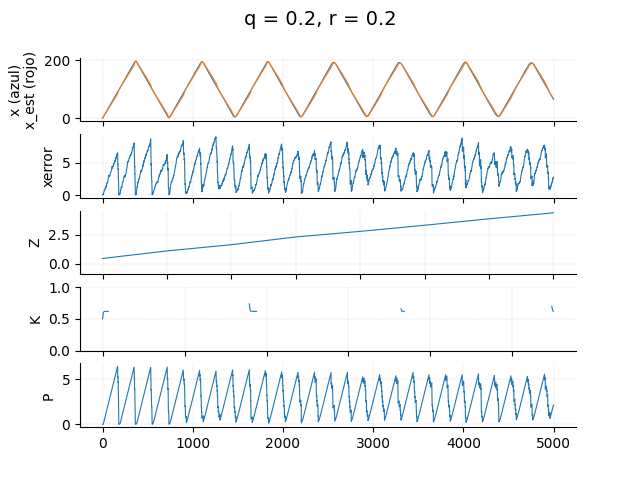
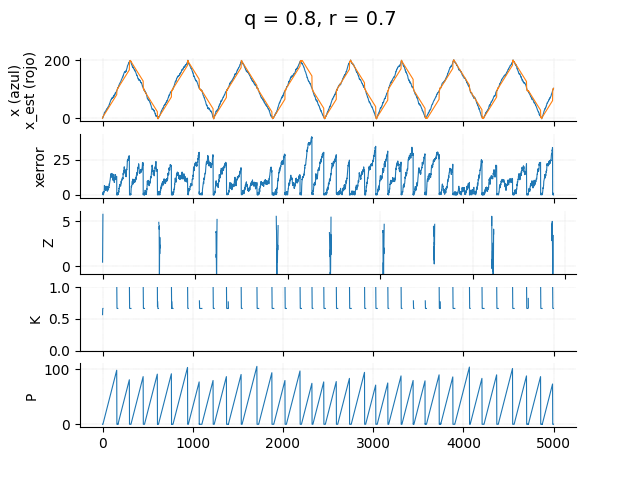
Primer intento de separar en scripts e iteraciones

diff --git a/TwoDim/main.py b/TwoDim/main.py
@@ -2,6 +2,9 @@ import matplotlib.pyplot as plt
 import localizacion as loc
 import plots
 import csv
+import numpy as np
+import pandas as pd
+import math
 
 
 dist = 200    # (m) este parámetro no se cambia
@@ -10,34 +13,71 @@ t_max = 5000  # (s) este parámetro no se cambia
 seeds = [123456789, 234567891, 34567891, 456789123, 567891234, 67891234, 7891234, 89123456, 912345678, 213456789]
 #seeds = [123456789]
 
-q_set = [0.2, 0.4, 0.5, 0.7]
-r_eval = [0.2, 0.3, 0.4, 0.8]
-#q_set = [0.8]
-#r_eval = [0.7]
-rango_set = [5]
+#q_set = [0.2, 0.4, 0.5, 0.7]
+#r_eval = [0.2, 0.3, 0.4, 0.8]
+q_set = [0.2]
+r_eval = [0.4]
+rango_set = [70]
+
+#Ctes iniciales
+v_lin = 0.5     #Velocidad lineal m/s
+radio = 260
+
+# Landmarks definidos respecto del origen
+m = [ (0, 2*radio),
+        (0, 0)]
 
 with open('log.csv','w', newline='') as file:
     writer = csv.writer(file)
-    writer.writerow(['x', 'xest', 'xerror', 'p', 'z', 'K', 'var_q', 'var_r'])
+    writer.writerow(['x_avg', 'y_avg', 'xest_avg', 'yest_avg', 'error_avg', 'x_std', 'y_std', 'xest_std', 'yest_std', 'var_q', 'var_r'])
 
     for j in enumerate(r_eval):
         r_set = j[1]
         for i in enumerate(q_set):
             q = i[1] ** 2  # prueba con distinto ruido odométrico, varianza (m2)
             r = r_set ** 2  # prueba con distinto ruido sensorial, varianza (m2)
-            #rango_sensor = rango_set[i[0]]  # prueba con distinto alcance sensorial (m)
-            rango_sensor = 5
+            rango_sensor = rango_set[i[0]]  # prueba con distinto alcance sensorial (m)
 
-            # Localización por odometría
-            estados1 = loc.localizacion_odometrica(q, r, rango_sensor, dist, t_max, seeds[0])
-            plots.plot_estados(estados1, i[1], r_set, "media/lo_q" + str(i[0]) + "r" + str(j[0]) + ".png", dist)
-            writer.writerow(estados1.mean())
-
-            # Localización con FK y un landmark
-            estados2 = loc.localizacion_FK(q, r, rango_sensor, dist, t_max, seeds)
-            writer.writerow(estados2[0].mean())
-            estados2_media = sum(estados2)/len(estados2)
-            plt.figure(2)
-            plots.plot_estados(estados2_media, i[1], r_set, "media/lfk_q" + str(i[0]) + "r" + str(j[0]) + ".png", dist)
+            # Localización con FK y landmarks
+            estados2 = loc.localizacion2D(q, r, rango_sensor, t_max, m, v_lin, radio, seeds)
+            x = []
+            y = []
+            err = []
+            x_est = []
+            y_est = []
+            z = []
+            Kx = []
+            Ky = []
+            px = []
+            py = []
+            for l in range(t_max):
+                    x.append(sum(estados2[k]['x'][l][0] for k in range(len(estados2)))/len(estados2))
+                    y.append(sum(estados2[k]['x'][l][1] for k in range(len(estados2)))/len(estados2))
+                    err.append(sum(estados2[k]['err'][l] for k in range(len(estados2)))/len(estados2))
+                    x_est.append(sum(estados2[k]['x_est'][l][0] for k in range(len(estados2)))/len(estados2))
+                    y_est.append(sum(estados2[k]['x_est'][l][1] for k in range(len(estados2)))/len(estados2))
+                    z.append(sum(estados2[k]['z'][l][1] for k in range(len(estados2)))/len(estados2))
+                    Kx.append(sum(estados2[k]['k'][l][0] for k in range(len(estados2)))/len(estados2))
+                    Ky.append(sum(estados2[k]['k'][l][1] for k in range(len(estados2)))/len(estados2))
+                    px.append(sum(estados2[k]['p'][l][0] for k in range(len(estados2)))/len(estados2))
+                    py.append(sum(estados2[k]['p'][l][1] for k in range(len(estados2)))/len(estados2))
+            x_mean = np.mean(x)
+            x_var = np.std(x)
+            y_mean = np.mean(y)
+            y_var = np.std(y)
+            err_mean = np.mean(err)
+            err_var = np.std(err)
+            xest_mean = np.mean(x_est)
+            yest_mean = np.mean(y_est)
+            xest_var = np.std(y_est)
+            yest_var = np.std(y_est)
+            p = [math.sqrt(px[k]**2 + py[k]**2) for k in range(t_max)]
+            K = [math.sqrt(Kx[k]**2 + Ky[k]**2) for k in range(t_max)]
+            
+            fila = [x_mean, x_var, y_mean, y_var, xest_mean, xest_var, yest_mean, yest_var, err_mean, err_var]
+            writer.writerow(fila)
+            fila = {'x_est':[x_est], 'x': [x], 'y_est':[y_est], 'y':[y], 'err': [err], 'p': [estados2[0]['p']], 'z': [estados2[0]['z']], 'k': [estados2[0]['k']]}
+            estados2_media = pd.DataFrame({'x':x, 'y':y, 'x_est':x_est, 'y_est':y_est, 'err':err, 'z':z, 'k':K, 'p':p })
+            plots.plot_estados(estados2_media, i[1], r_set, m, rango_sensor, "media/lfk_q" + str(i[0]) + "r" + str(j[0]) + ".png", dist)
 
 

diff --git a/TwoDim/localizacion.py b/TwoDim/localizacion.py
@@ -1,0 +1,101 @@
+import numpy as np
+import pandas as pd
+import math
+from numpy.linalg import inv
+import random as rnd
+
+
+def localizacion2D(q, r, rango_sensor, t_max, m, v_lin, radio, seeds):
+    estados = []
+    for i,s in enumerate(seeds):
+        rnd.seed(s)
+    
+        #Constantes iniciales
+        v_ang = v_lin / radio     #Velocidad angular rad/s
+        x = np.array([[0], [0]], dtype=float)    #Posición inicial 0,0
+        ang = ang_id = 0
+
+        #Movimiento
+        x_est = x.copy()    #Empiezo en el origen
+
+
+        # Covarianza del error asociada a la estimación a priori
+        P = np.array([[0, 0],
+                    [0, 0]])  # 2x2 para (x,y)
+        # Ruido del modelo de movimiento
+        Q = np.array([[q, 0],
+                    [0, q]])  # 2x2 para (x,y)
+        # Ruido sensorial
+        R = np.array([[r, 0],
+                    [0, r]])  # 2x2 para (x,y)
+
+        # Relación entre mediciones y vector de estado
+        H = np.array([[1, 0],
+                    [0, 1]])  # 2x2 para (x,y)
+
+        # Valor inicial de K, solo para incluirlo en 'estados' antes de calcularlo por primera vez
+        K = np.array([[0, 0],
+                    [0, 0]])  # 2x2 para (x,y)
+
+        estados.append(pd.DataFrame(data = {'x_est':[], 'x': [], 'err': [], 'p': [], 'z': [], 'k': []}))
+
+        #Simulación
+        for t in range(t_max):
+            #Calculo los números aleatorios
+            r1 = rnd.gauss(0,1)
+            r2 = rnd.gauss(0,1)
+            r3 = rnd.gauss(0,1)
+            r4 = rnd.gauss(0,1)
+            r5 = rnd.gauss(0,1)
+
+            #Posiciones ideales
+            ang_id += v_ang
+            x_est[0][0] += v_lin * math.cos(ang_id)
+            x_est[1][0] += v_lin * math.sin(ang_id)
+
+            #Posiciones reales
+            ang += v_ang + r1/(20*math.pi) * (q**0.5)
+            x[0][0] += (v_lin + r2 * (q**0.5)) * math.cos(ang) 
+            x[1][0] += (v_lin + r3 * (q**0.5)) * math.sin(ang)
+        
+            #Filtro
+            P = P + Q  # varianza del error asociada a la estimación a priori
+            correccion = False
+
+            z = []
+            for mi in m:
+                if ( math.fabs(( math.sqrt( (mi[0] - x[0][0])**2 + (mi[1] - x[1][0])**2) ) ) < rango_sensor):  # si se detecta el landmark
+                    # Actualizamos la observación (con ruido)
+                    foo = np.array([[x[0][0] + r4 * (r**0.5)], [x[1][0] + r5 * (r**0.5)]])
+                    correccion = True
+                else:   
+                    foo = np.array([[math.nan], [math.nan]])
+                z.append(foo)
+
+            # Corrección basada en z, sólo si se detectó algún landmark
+            if (correccion):
+                # Actualización de la medición (innovación)
+                points = 0
+                innov = np.array([[0], [0]], dtype=float)
+                for zi in z:
+                    if not math.isnan(zi[0]):
+                        innov = innov + zi - H @ x_est
+                        points += 1
+                innov = innov / points         #Hago la media
+
+                # Ganancia de Kalman
+                K = P @ np.transpose(H) @ inv(H @ P @ np.transpose(H) + R)
+
+                # Estimación a posteriori
+                x_est = x_est + K @ innov
+
+                # Covarianza del error asociada a la estimación a posteriori
+                P = P - K * H * P
+            else:
+                K = np.array([[math.nan, 0],
+                                [ 0, math.nan]])  # 2x2 para (x,y)
+
+            fila = {'x_est': [(x_est[0][0], x_est[1][0])], 'x': [(x[0][0], x[1][0])], 'err':[math.fabs(x[1][0]-x_est[1][0]+x[0][0]-x_est[0][0])],
+                    'p': [(P[0][0], P[1][1])], 'k': [(K[0][0], K[1][1])], 'z': [(z[0][0], z[1][0])]}
+            estados[i] = pd.concat([estados[i], pd.DataFrame(fila)], ignore_index=True )
+    return estados

diff --git a/TwoDim/plots.py b/TwoDim/plots.py
@@ -1,34 +1,61 @@
 import matplotlib.pyplot as plt
+import math
+import numpy as np
 
-def plot_estados(estados, q, r, file=None, ymax=None):
-    fig, axes = plt.subplots(5, 1)
+def plot_estados(estados, q, r, m, rango_sensor, file=None, ymax=None):
+    '''
+    disp = plt.figure(num="MovimientoCircular",figsize=(5,5))
+    plt.plot(estados['x'], estados['y'], color='red' linewidth=1, label="Real")
+    plt.plot(estados['x_est'],estados['y_est'], linestyle='dashed', color='blue', linewidth=1 , label="Estimado")
 
-    axes[0].plot(estados['x'], linewidth=0.8)
-    axes[0].plot(estados['xest'], linewidth=0.8)
-    axes[0].set_ylabel('x (azul)\nx_est (rojo)')
+    #Circunferencia de radio = rango_sensor
+    angles = np.linspace(0, 2*math.pi, 150)
+    a = np.array([rango_sensor * math.cos(angle) for angle in angles])
+    b = np.array([rango_sensor * math.sin(angle) for angle in angles])
+
+    #Muevo la circunferencia a cada uno de los landmarks
+    for mi in m:
+        ai = a + mi[0]
+        bi = b + mi[1]
+        plt.plot(ai, bi, linestyle='dashed', color='green', linewidth=1)
+        plt.plot(mi[0], mi[1], "x", color='green', linewidth=1)
+    plt.plot(m[0][0], m[0][1], "x", color='green', label="Landmark")
+
+    plt.legend(loc='upper left')
+    plt.title("Parte 2")
+    plt.show()
+
+    plt.close()
+    '''
+    fig, axes = plt.subplots(6,1)
+    timesim = list(range(0, len(estados)))
+    axes[0].plot(timesim, estados['x'], linewidth=0.8)
+    axes[0].plot(timesim, estados['x_est'], linewidth=0.8)
+    axes[0].set_ylabel('x (azul)\ x_est (rojo)')
     plt.suptitle("q = " + str(q) + ", r = " + str(r), fontsize = 14 )
-    if (ymax is not None):
-        axes[0].set_ylim(-ymax * 0.05, ymax * 1.05)
 
-    axes[1].set_ylabel('xerror')
-    axes[1].plot(estados['xerror'], linewidth=0.8)
+    axes[1].plot(timesim, estados['y'], linewidth=0.8)
+    axes[1].plot(timesim, estados['y_est'], linewidth=0.8)
+    axes[1].set_ylabel('y (azul)\ y_est (rojo)')
 
-    axes[2].set_ylabel('Z')
-    axes[2].plot(estados['z'], linewidth=0.8)
-    axes[2].set_ylim(-0.9)
+    axes[2].set_ylabel('err')
+    axes[2].plot(estados['err'], linewidth=0.8)
 
-    axes[3].set_ylabel('K')
-    axes[3].plot(estados['K'], linewidth=0.8)
-    axes[3].set_ylim(0, 1)
+    axes[3].set_ylabel('Z')
+    axes[3].plot(timesim, estados['z'], linewidth=0.8)
 
-    axes[4].set_ylabel('P')
-    axes[4].plot(estados['p'], linewidth=0.8)
+    axes[4].set_ylabel('K')
+    axes[4].plot(timesim, estados['k'], linewidth=0.8)
 
-    for i in range(5):
+
+    axes[5].set_ylabel('P')
+    axes[5].plot(timesim, estados['p'], linewidth=0.8)
+
+    for i in range(6):
         axes[i].spines['top'].set_visible(False)
         axes[i].spines['right'].set_visible(False)
         axes[i].grid(linestyle=':', linewidth=0.3)
-        if (i < 4):
+        if (i < 5):
             axes[i].set_xticklabels([])
 
     if (file is None):

diff --git a/TwoDim/global.py b/TwoDim/global.py
@@ -11,7 +11,6 @@ r = 0.1 ** 2
 rango_sensor = 100
 t_max = 5000
 
-estados = []
 
 #Constantes iniciales
 v_lin = 0.5     #Velocidad lineal m/s
@@ -46,8 +45,7 @@ K = np.array([[0, 0],
 m = [ (0, 2*radio),
         (0, 0)]
 
-#estados.append(pd.DataFrame(data={'x': [], 'xest': [], 'xerror': [], 'p': [], 'z': [], 'K': [], 'q': [], 'r': []}))
-estados = pd.DataFrame(estados.append(pd.DataFrame(data = {'x_est':[], 'x': [], 'err': [], 'p': [], 'z': [], 'k': []})))
+estados = pd.DataFrame(data = {'x_est':[], 'x': [], 'err': [], 'p': [], 'z': [], 'k': []})
 
 
 
@@ -160,7 +158,7 @@ axes[4].set_ylabel('K')
 c,v = zip(*estados['k'])
 axes[4].plot(timesim, c, linewidth=0.8)
 axes[4].plot(timesim, v, linewidth=0.8)
-#axes[3].set_ylim(0, 1)
+
 
 axes[5].set_ylabel('P')
 c,v = zip(*estados['p'])

diff --git a/OneDim/main.py b/OneDim/main.py
@@ -8,13 +8,13 @@ import MergeImages as merge
 dist = 200    # (m) este parámetro no se cambia
 t_max = 5000  # (s) este parámetro no se cambia
 
-seeds = [123456789, 234567891, 34567891, 456789123, 567891234, 67891234, 7891234, 89123456, 912345678, 213456789]
-#seeds = [123456789]
+#seeds = [123456789, 234567891, 34567891, 456789123, 567891234, 67891234, 7891234, 89123456, 912345678, 213456789]
+seeds = [123456789]
 
-q_set = [0.2, 0.4, 0.5, 0.7]
-r_eval = [0.2, 0.3, 0.4, 0.8]
-#q_set = [0.8]
-#r_eval = [0.7]
+#q_set = [0.2, 0.4, 0.5, 0.7]
+#r_eval = [0.2, 0.3, 0.4, 0.8]
+q_set = [0.8]
+r_eval = [0.7]
 rango_set = [5]
 
 with open('log.csv','w', newline='') as file:

diff --git a/OneDim/localizacion.py b/OneDim/localizacion.py
@@ -196,5 +196,5 @@ def localizacion_FK(q, r, rango_sensor, dist, t_max, seeds):
             fila = {'x': [x[0][0]], 'xest': [x_est[0][0]], 'xerror': [math.fabs(x[0][0] - x_est[0][0])], 'p': [P[0][0]],
                     'z': [z[0][0]], 'K': [K[0][0]], 'q': [q], 'r': [r]}
             estados[i] = pd.concat([estados[i], pd.DataFrame(fila)], ignore_index=True)
-
+                   
     return estados
